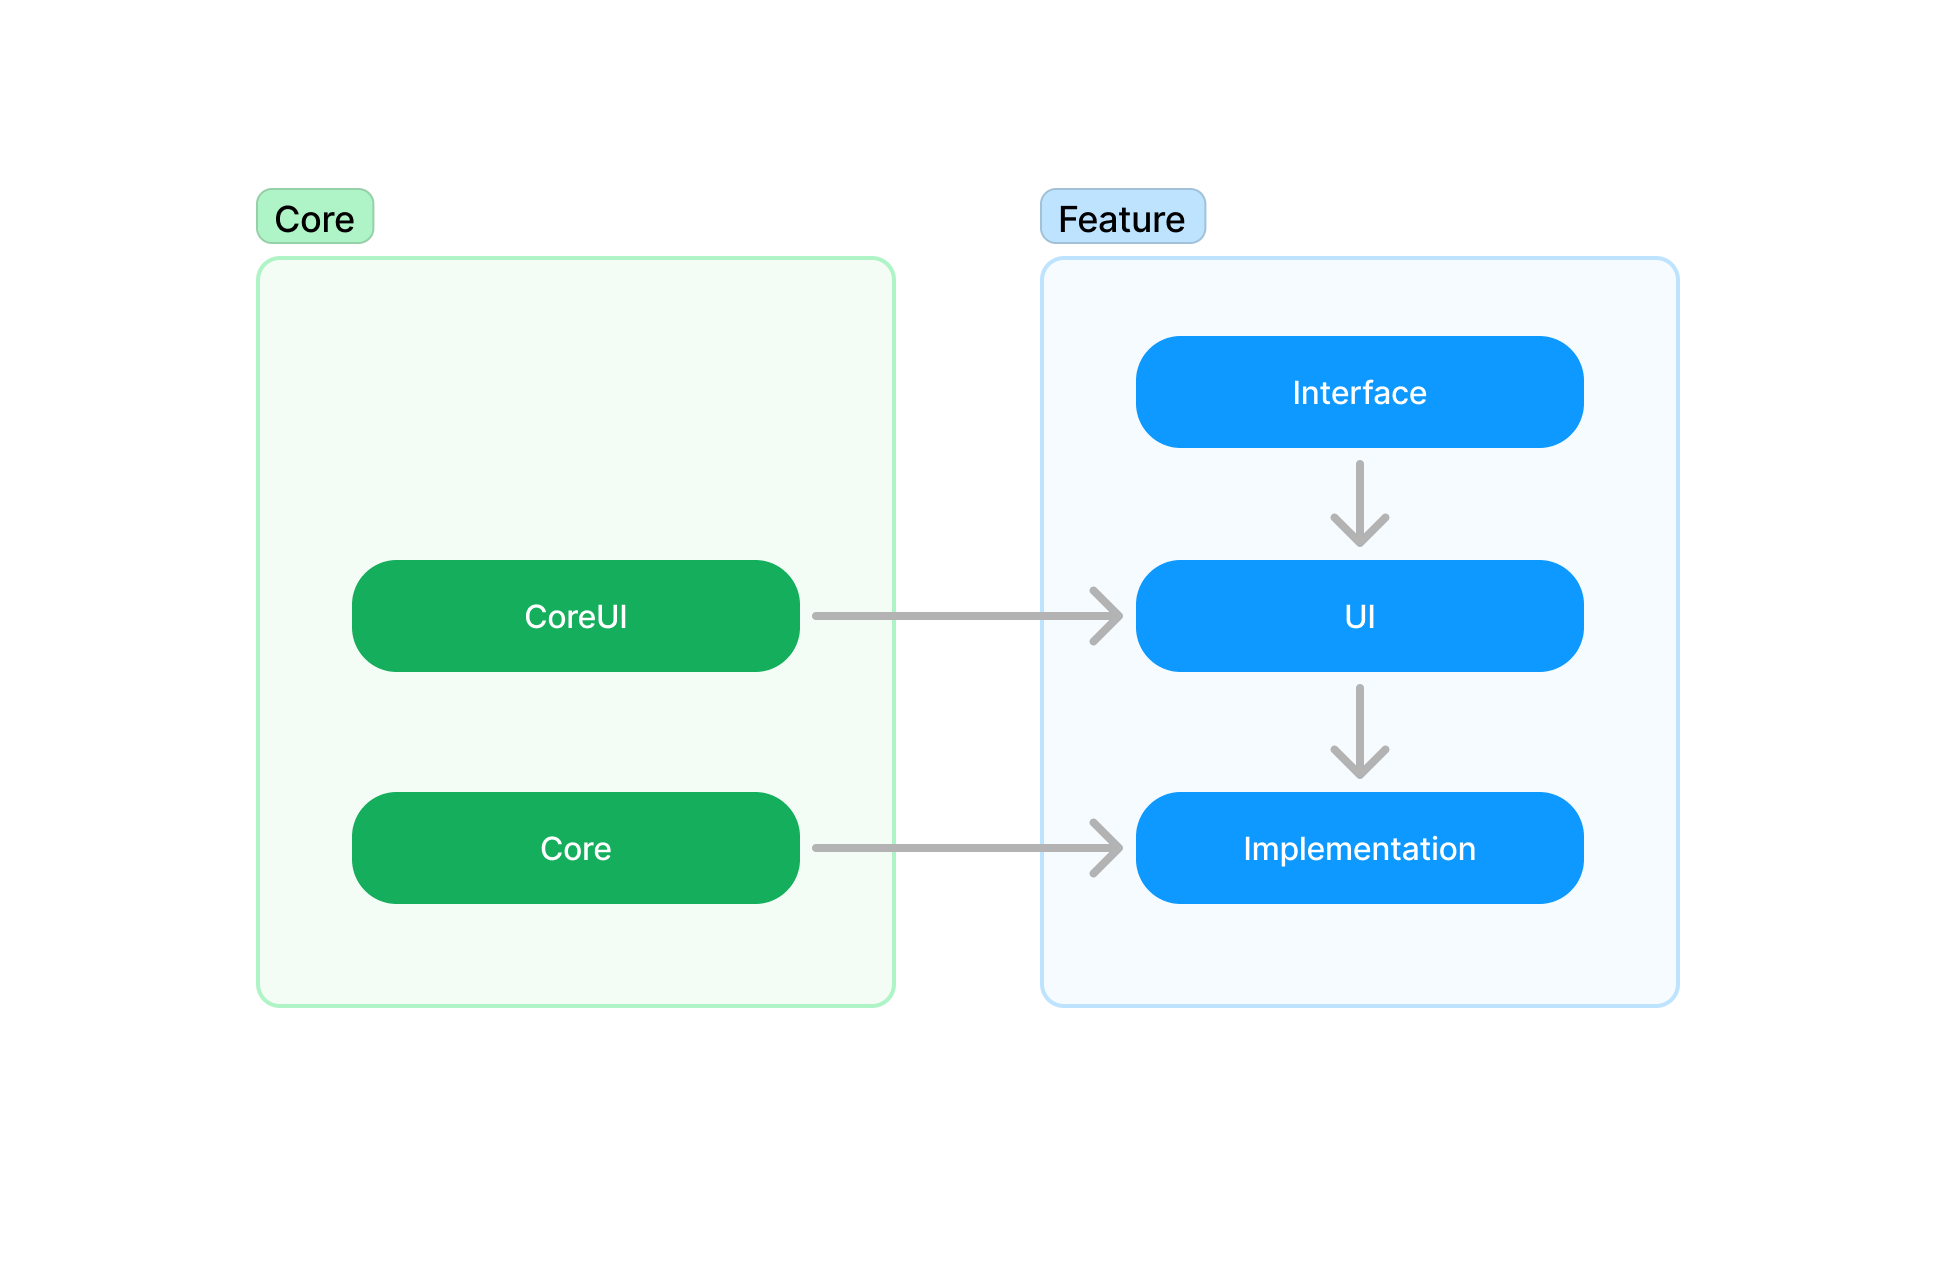
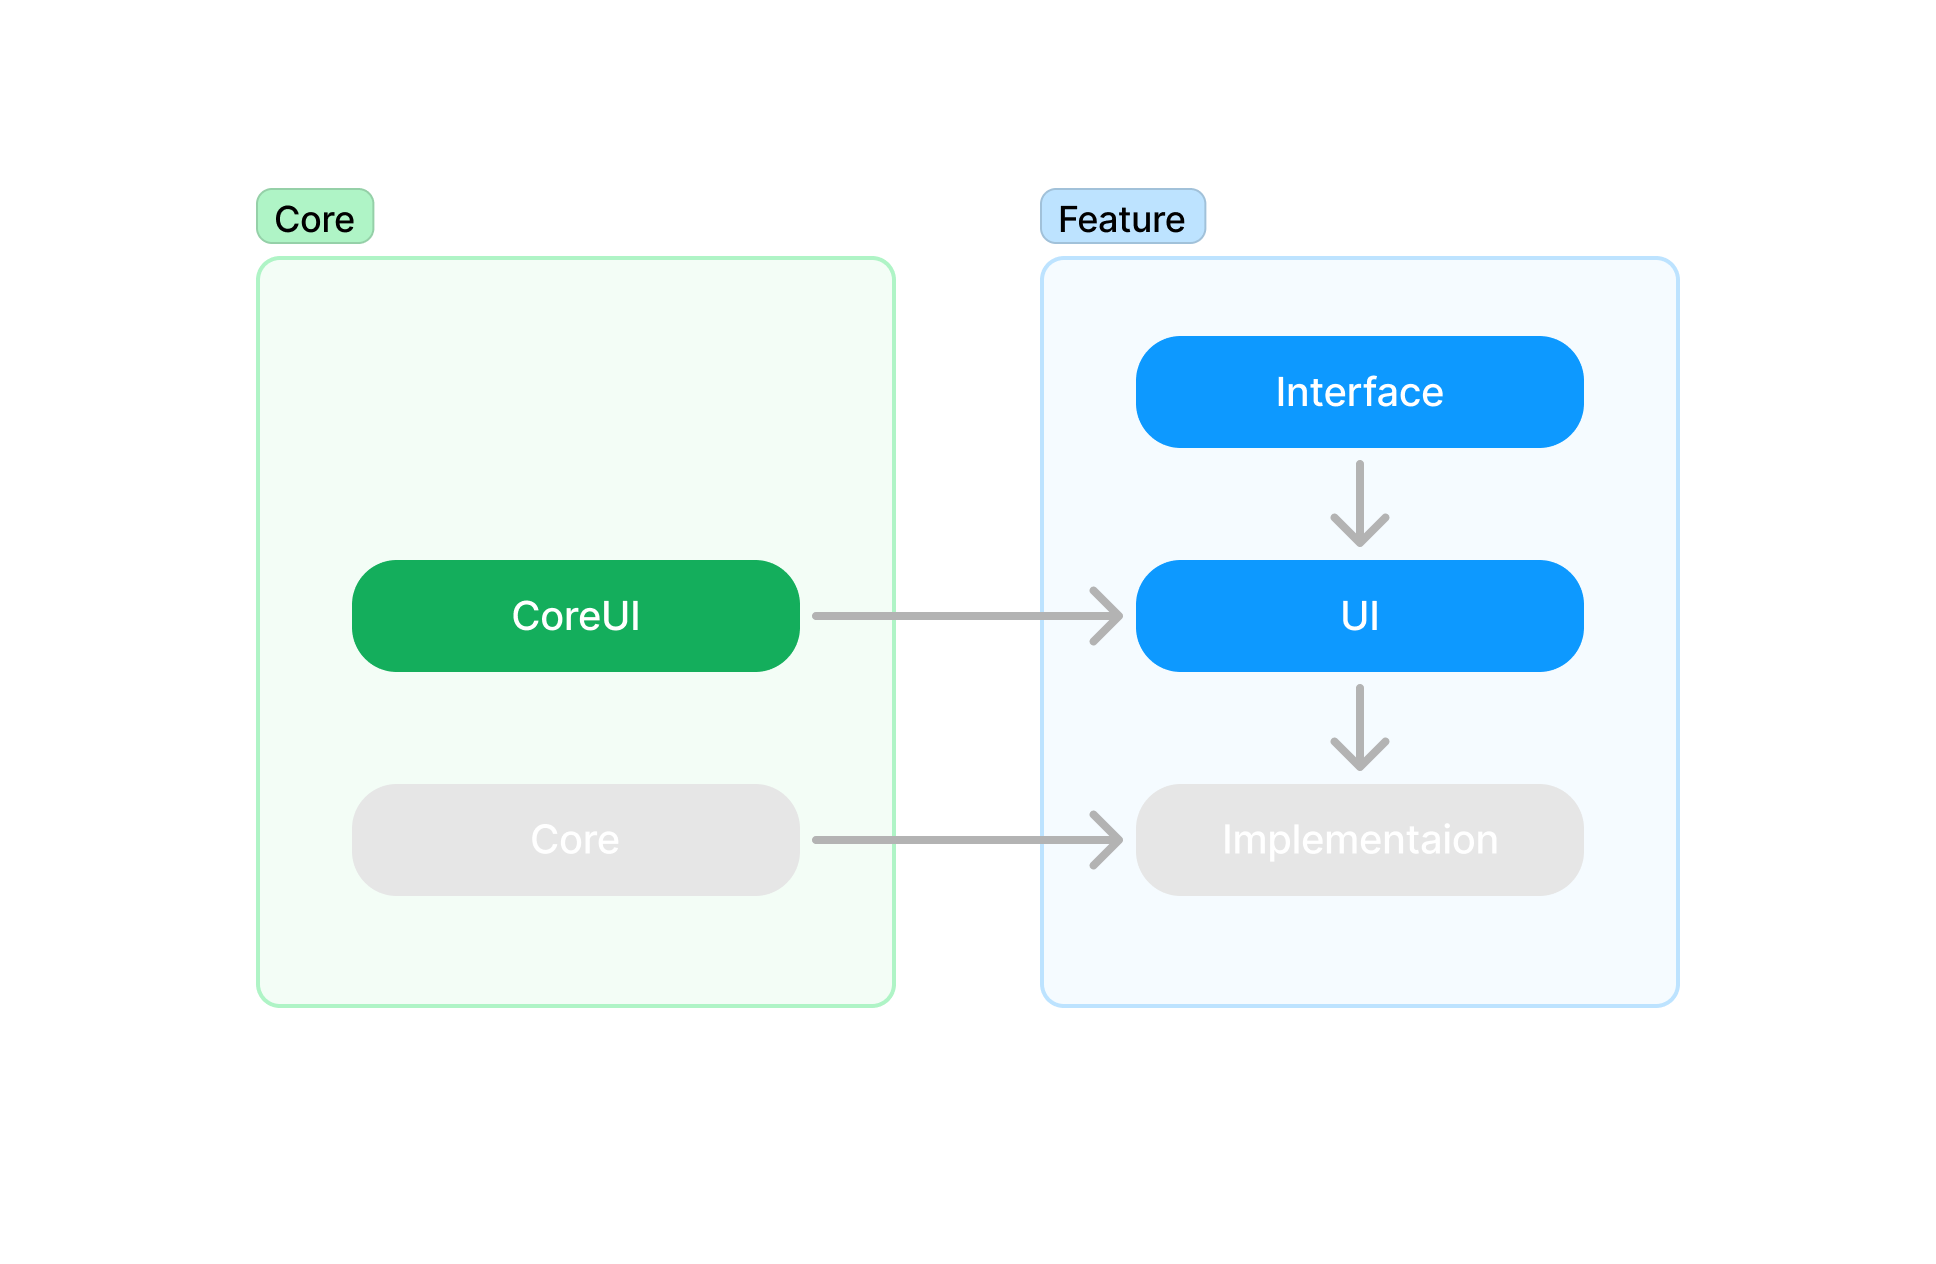
UI 모듈 수정

diff --git a/_posts/2024-09-20-ios-preview-module/index.md b/_posts/2024-09-20-ios-preview-module/index.md
@@ -79,15 +79,6 @@ struct TadaAddView: View {
 
 따라서 저희는 이 문제점을 해결하기 위해 Feature 모듈 내에 UI 모듈을 만들었고, UI에 실질적으로 필요한 모듈을 분리함으로써 불필요한 모듈의 종속성을 제거하였습니다.
 
-<div style="justify-content: center; width: 100%;">
-  <div style="width: 100%; margin: -20px 0;">
-    <img src="./module_feature.png">
-    </img>
-  </div>
-</div>
-
-위 그림과 같이 UI 모듈은 UI에 필수적인 CoreUI를 바라보게 되고, 그 외의 코드들로 부터 독립될 수 있습니다. 
-
 ### 타다 프로젝트 구조
 
 <div style="justify-content: center; width: 100%;">
@@ -132,18 +123,18 @@ struct TadaAddView: View {
 - TadaHomeWidget: 타다의 홈 화면에서 사용하는 Widget Extension입니다. 이 모듈은 사용자에게 집, 회사 또는 즐겨 찾는 장소로의 빠른 호출을 도와줍니다.
 - TadaRideActivityWidget: 타다의 Live Activity와 Dynamic Island를 지원하는 Widget Extension입니다. 이 모듈은 사용자가 탑승 전후의 실시간 상태를 바로 확인할 수 있게 해줍니다.
 
-### UI 모듈의 종속성
+### UI 모듈
 
-타다 프로젝트에서 UI 모듈은 아래처럼 모듈 종속성이 생기게 됩니다.
+UI 모듈은 View, ViewModel, 그리고 View에 필요한 여러 Model Extension 코드로 구성되어 있습니다. 실제로 모든 UI 작업은 이 모듈 내에서 이루어지며, SwiftUI Preview 기능 또한 해당 모듈에서 사용됩니다.
 
 <div style="justify-content: center; width: 100%;">
   <div style="width: 100%; margin: -20px 0;">
-    <img src="./module_ui.png">
+    <img src="./module_feature.png">
     </img>
   </div>
 </div>
 
-많은 코드 중에 UI에 필수적인 코드만 주입하게 되어 SwiftUI Preview 성능을 극대화 할 수 있고 이에 따라 개발 퍼포먼스가 크게 향상하였습니다.
+위 그림과 같이 UI 모듈은 UI에 필수적인 Interface 모듈과 CoreUI 모듈을 바라보게 됩니다. 이처럼 프로젝트의 많은 코드 중에서 UI에 필수적인 코드만을 주입하여 SwiftUI Preview 성능을 극대화하고, 결과적으로 개발 퍼포먼스가 크게 향상되었습니다.
 
 분리된 모듈들이 실제로 UI에 어떻게 주입되는 지 아래 예시를 통해 확인해 볼 수 있습니다.
 
